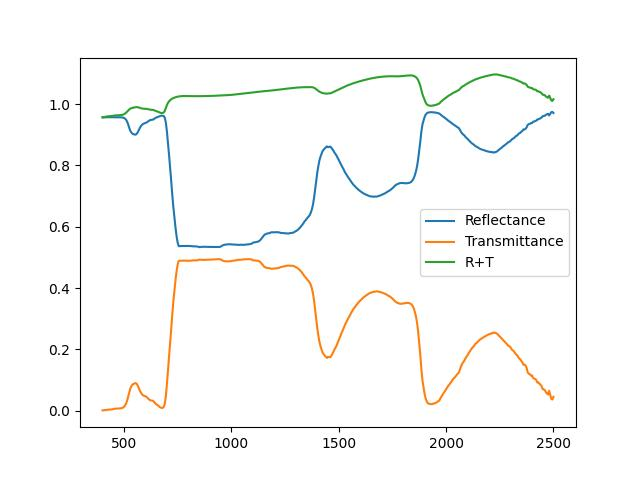
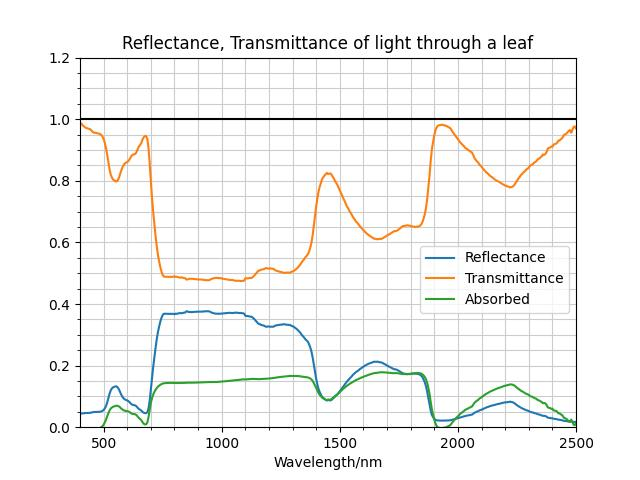
improved plot, removed test2

diff --git a/multiplatemodel.py b/multiplatemodel.py
@@ -1,6 +1,7 @@
 import numpy as np
 from helper_functions import get_tav
 import matplotlib.pyplot as plt
+from matplotlib.ticker import MultipleLocator, AutoMinorLocator
 from scipy.special import exp1
 from data_another_style import data
 
@@ -23,8 +24,16 @@ class MultiPlateModel:
         data2 = np.array(data)
         self.wavelength = data2[:, 0]
         refractive_index_array = data2[:, 1]
+        # This k right now is the absorption coefficient.
+        # It is derived from adding:
+        # [(Chlorophyll (a+b) content of leaf) * (Specific absorption coefficient of leaf) +
+        # (Water content of leaf) * (Specific absorption coefficient of leaf) +
+        # (Dry Matter content of leaf) * (Specific absorption coefficient of leaf)] / Leaf Structure Parameter
+        # + Absorption coefficient of albino elementary layer
         k = (Cab * data2[:, 3] + Cw * data2[:, 4] + Cm * data2[:, 5]) / N + data2[:, 2]
 
+        # Getting the transmission coefficient k
+        # Should never hit the if statement
         if np.all(k <= 0):
             k = 1
         else:
@@ -103,21 +112,44 @@ class MultiPlateModel:
         return self.s2 / self.s3
 
     def output(self):
-        return [self.wavelength, 1 - self.reflectance(), self.transmittance()]
+        return [self.wavelength, self.reflectance(), 1 - self.transmittance()]
 
 
 if __name__ == "__main__":
-    model = MultiPlateModel(1.518, 58, 0.0131, 0.003662)
+    # model = MultiPlateModel(1.518, 58, 0.0131, 0.003662)
+    model = MultiPlateModel(1.2, 30, 0.015, 0.01)
     # model = PROSPECT1990(2.698, 70.8, 0.000117, 0.009327)
     # df = pd.DataFrame(model.output())
     output = model.output()
     # print(f"reflectance: {output[1]}")
     # print(f"transmittance: {output[2]}")
+
     plot, axs = plt.subplots()
     axs.plot(output[0], output[1], label="Reflectance")
     axs.plot(output[0], output[2], label="Transmittance")
-    total = output[1] + output[2]
 
-    axs.plot(output[0], total, label="R+T")
-    axs.legend()
+    total = output[1] + output[2]
+    absorbed = 1 - total
+    axs.plot(output[0], absorbed, label="Absorbed")
+    axs.hlines(y=1, xmin=400, xmax=2500, color="k")
+    # axs.plot(output[0], total, label="R+T")
+    axs.set_title("Reflectance, Transmittance of light through a leaf")
+    axs.set_xlabel("Wavelength/nm")
+    axs.set_ylabel("")
+    # Set axis ranges; by default this will put major ticks every 25.
+    axs.set_xlim(400, 2500)
+    axs.set_ylim(0, 1.2)
+
+    # Change major ticks to show every 20.
+    axs.xaxis.set_major_locator(MultipleLocator(500))
+    axs.yaxis.set_major_locator(MultipleLocator(0.2))
+
+    # Change minor ticks to show every 5. (20/4 = 5)
+    axs.xaxis.set_minor_locator(AutoMinorLocator(5))
+    axs.yaxis.set_minor_locator(AutoMinorLocator(4))
+
+    axs.grid(which="both", color=(0.8, 0.8, 0.8))
+    plt.legend(loc=(1.04, 0.5))
+    plt.legend(bbox_to_anchor=(1, 0.4), loc="center right")
+
     plot.savefig("test.jpg")

diff --git a/plot_data.py b/plot_data.py
@@ -1,0 +1,15 @@
+from data_another_style import data
+import numpy as np
+import matplotlib.pyplot as plt
+
+database = np.array(data)
+plt.figure()
+plt.plot(database[:, 0], database[:, 3], label="Chlorophyll a+b")
+plt.plot(database[:, 0], database[:, 4], label="Water")
+plt.plot(database[:, 0], database[:, 5], label="Dry matter")
+plt.grid()
+plt.legend()
+plt.xlabel("Wavelength (nm)")
+plt.ylabel("Specific Absorption Coefficient")
+
+plt.savefig("dataplot.jpg")

diff --git a/helper_functions.py b/helper_functions.py
@@ -17,9 +17,7 @@ def get_tav(theta, refractive_index_arr: np.array):
     if theta_r == 0:
         return 4 * np.divide(refractive_index_arr, a * 2)
     elif theta_r == np.pi / 2:
-        b1 = np.zeros(
-            s
-        )  ####################################probably wrong syntax#################
+        b1 = np.zeros(s)  
     else:
         b1 = np.sqrt((ds**2 - rp / 2) ** 2 + k)
     b2 = ds**2 - rp / 2
